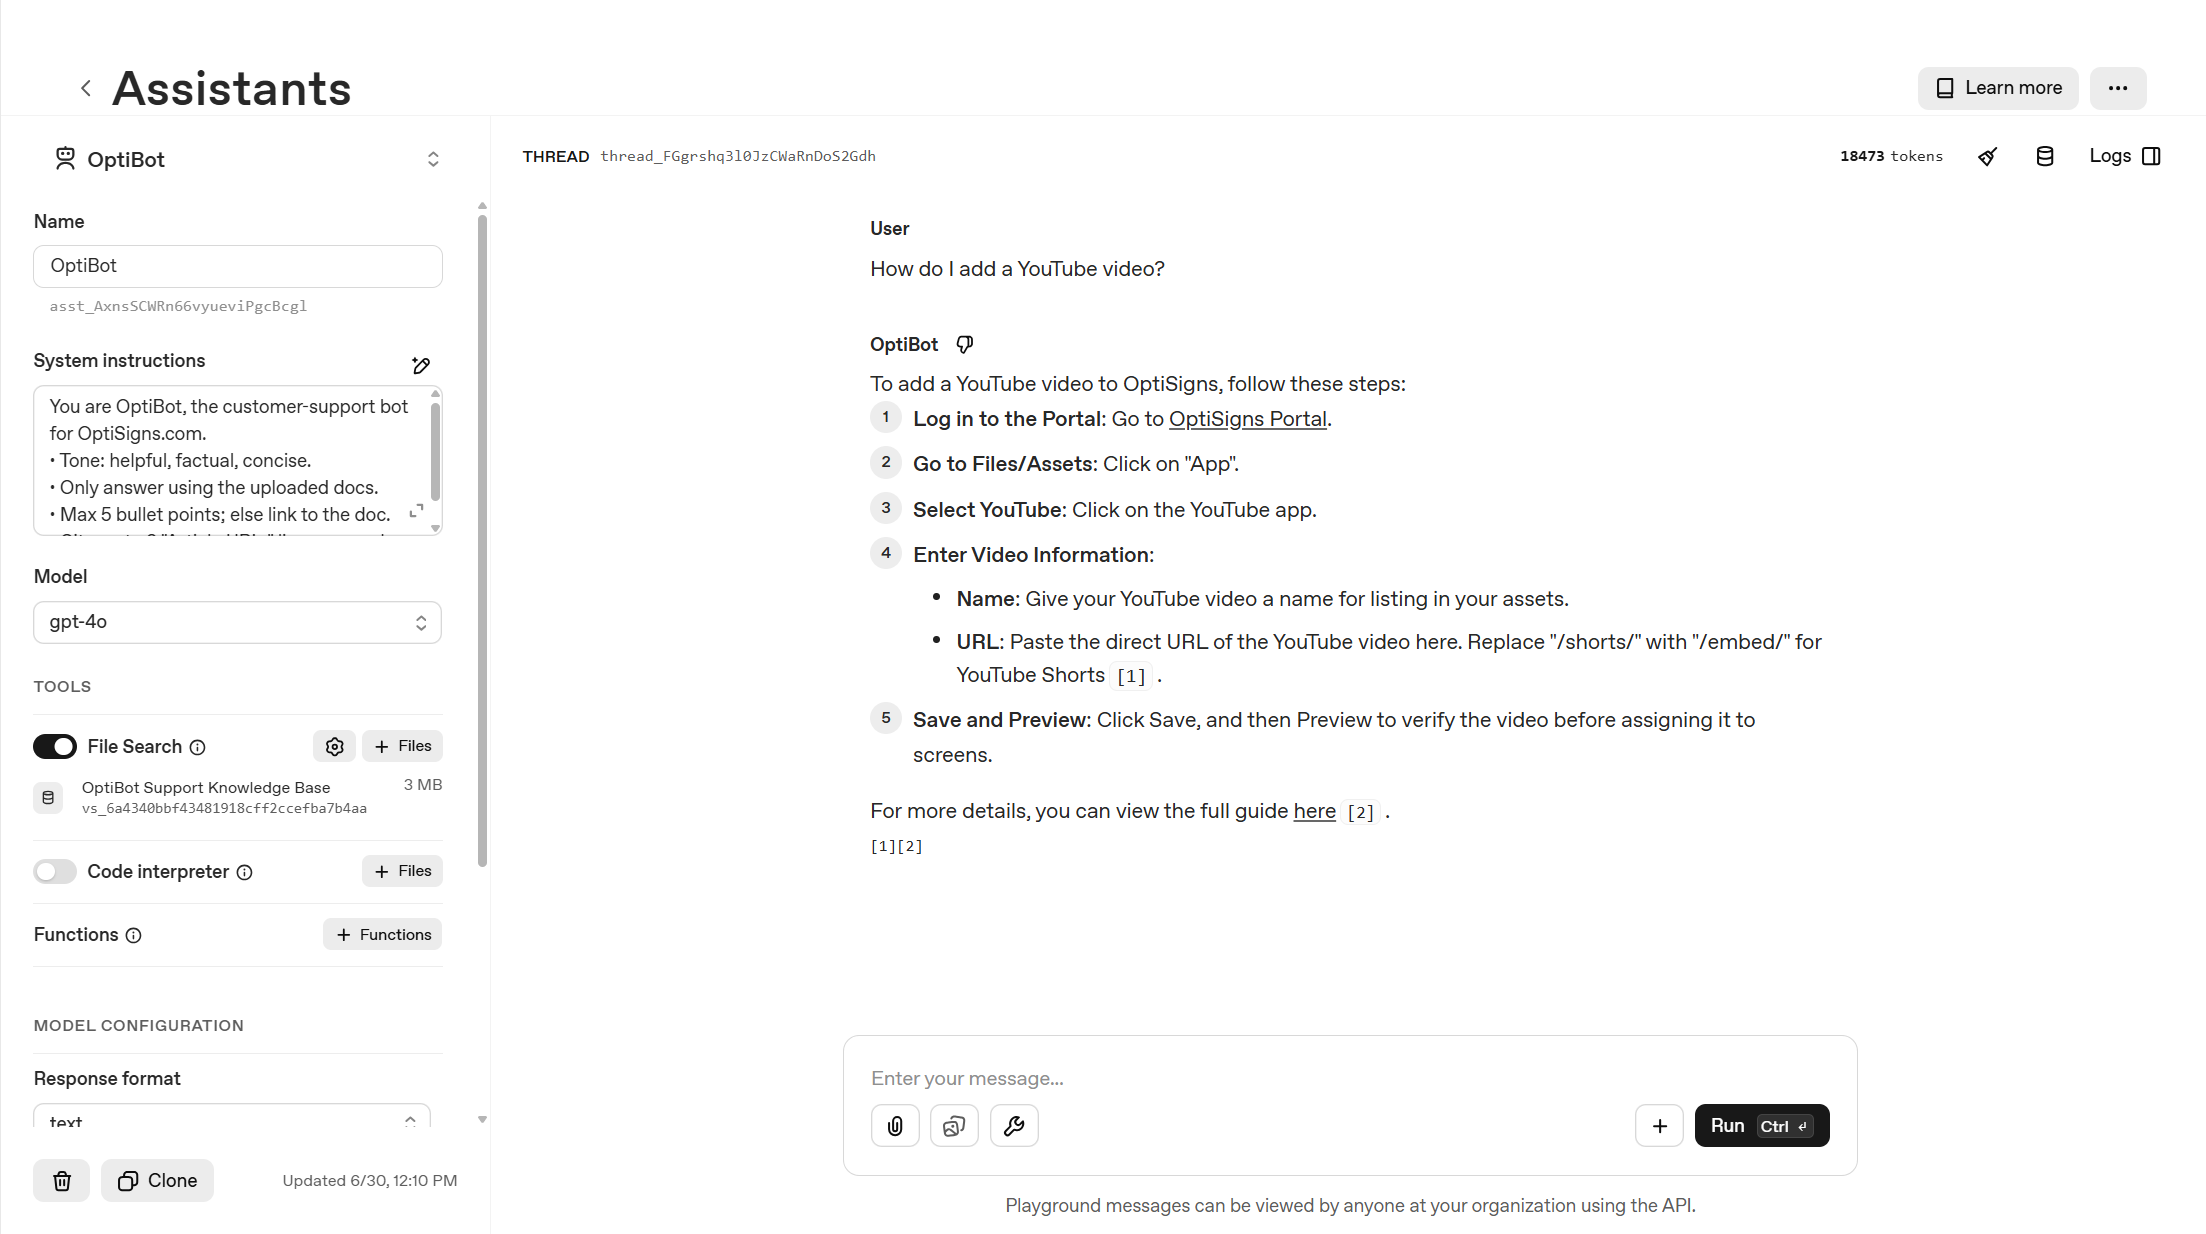
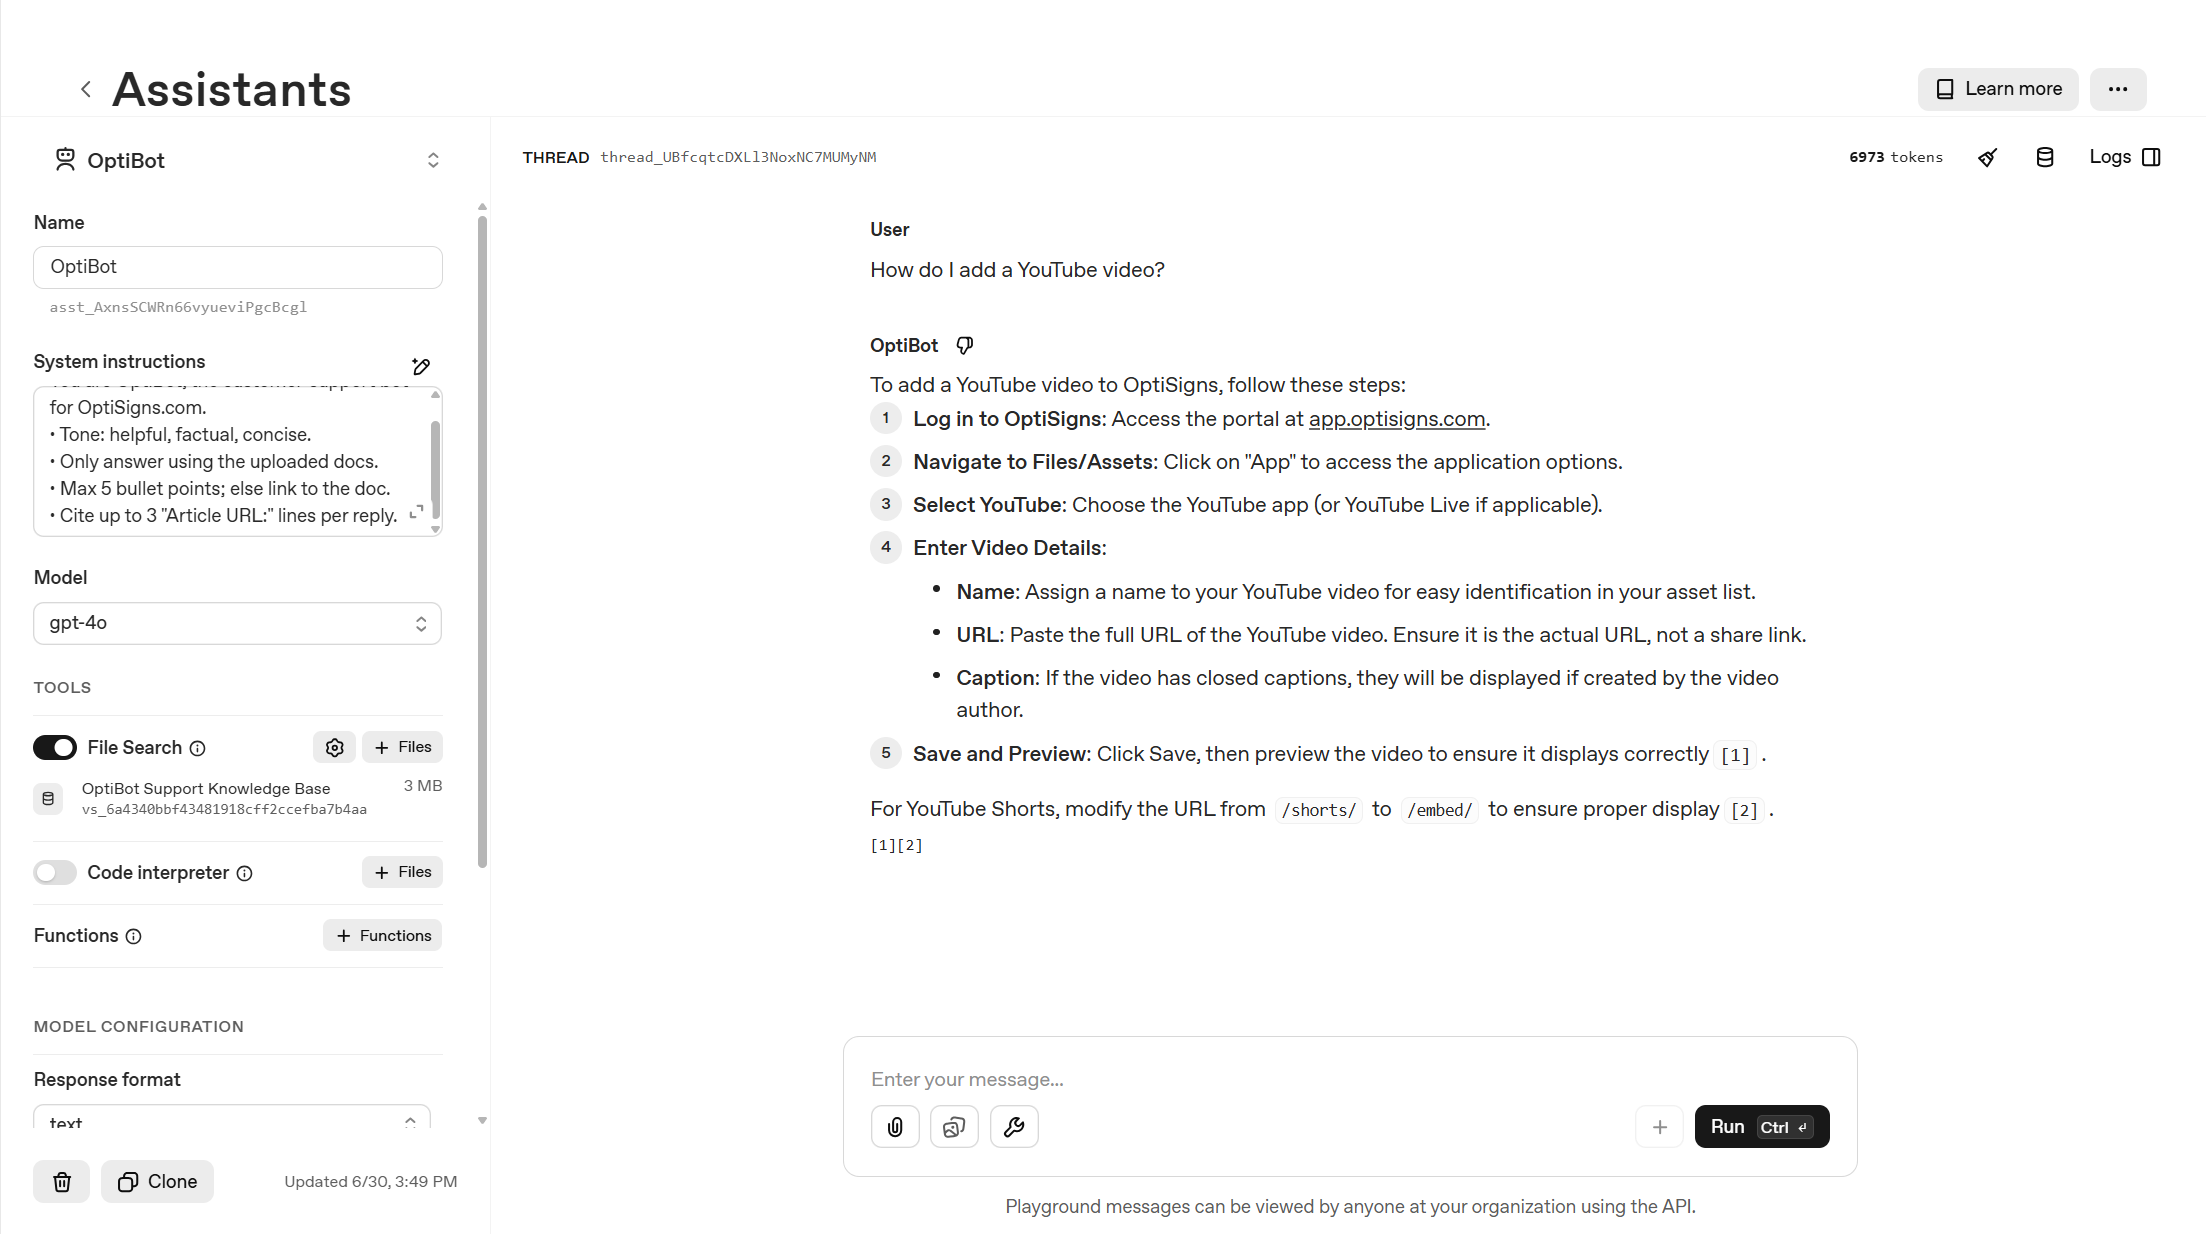
Update screenshot and create a README.md

diff --git a/README.md b/README.md
@@ -1,0 +1,90 @@
+# Mini-Chatbot
+
+A one-shot ingestion pipeline that scrapes public OptiSigns support articles,
+converts them to clean Markdown, and synchronizes only changed files to an
+OpenAI Vector Store.
+
+## Setup
+
+Requirements: Python 3.13+, an OpenAI Project API key, and optionally Docker
+Desktop for container testing.
+
+Open PowerShell and run each group in order:
+
+```powershell
+# 1. Download the repository and enter its directory.
+git clone https://github.com/TamNgx179/Mini-Chatbot.git
+Set-Location Mini-Chatbot
+
+# 2. Create and activate an isolated Python environment.
+python -m venv .venv
+.\.venv\Scripts\Activate.ps1
+
+# 3. Install the required Python packages.
+python -m pip install -r requirements.txt
+
+# 4. Create a local configuration file from the safe template.
+Copy-Item .env.example .env
+notepad .env
+```
+
+Replace both placeholders in `.env`:
+
+```dotenv
+OPENAI_API_KEY=your_project_api_key
+OPENAI_VECTOR_STORE_ID=your_vector_store_id
+```
+
+The real `.env` is Git-ignored and must never be committed.
+
+## Run locally
+
+```powershell
+# Safe check: scrape all articles and calculate the delta without remote writes.
+python main.py --all --dry-run
+
+# Real daily job: scrape, upload added/updated files, and remove stale files.
+python main.py --all
+
+# Scrape Markdown only; do not connect to OpenAI.
+python main.py --all --scrape-only
+
+# Run the automated test suite.
+$env:PYTHONPATH="src"
+python -m unittest discover -s tests -v
+```
+
+The current corpus contains 402 articles. Static chunking uses 1,200 tokens
+with 200-token overlap (approximately 700 chunks). Stable Article IDs and
+SHA-256 hashes classify documents as `added`, `updated`, `skipped`, or
+`removed`, so only the delta is uploaded.
+
+## Run with Docker
+
+Start Docker Desktop first, then run:
+
+```powershell
+# Build a reproducible image from the Dockerfile.
+docker build -t optibot-daily-sync .
+
+# Run one complete sync inside a temporary container, then remove it.
+docker run --rm --env-file .env optibot-daily-sync --all
+```
+
+Docker Desktop is needed only for local testing. GitHub Actions builds and runs
+the same container independently in the cloud.
+
+## Daily job logs
+
+GitHub Actions runs daily at 02:17 `Asia/Ho_Chi_Minh` and publishes the console
+log plus JSON report as a downloadable artifact.
+
+- [Workflow and run history](https://github.com/TamNgx179/Mini-Chatbot/actions/workflows/daily-sync.yml)
+- [Verified successful run](https://github.com/TamNgx179/Mini-Chatbot/actions/runs/28450621161)
+
+## Assistant result
+
+The Assistant answers the required sample question using File Search citations
+from the uploaded OptiSigns Markdown article:
+
+<img src="artifacts/screenshots/playground-youtube-video-cited-answer.png" alt="OptiBot answering how to add a YouTube video with File Search citations from the OptiSigns Markdown article" width="900">